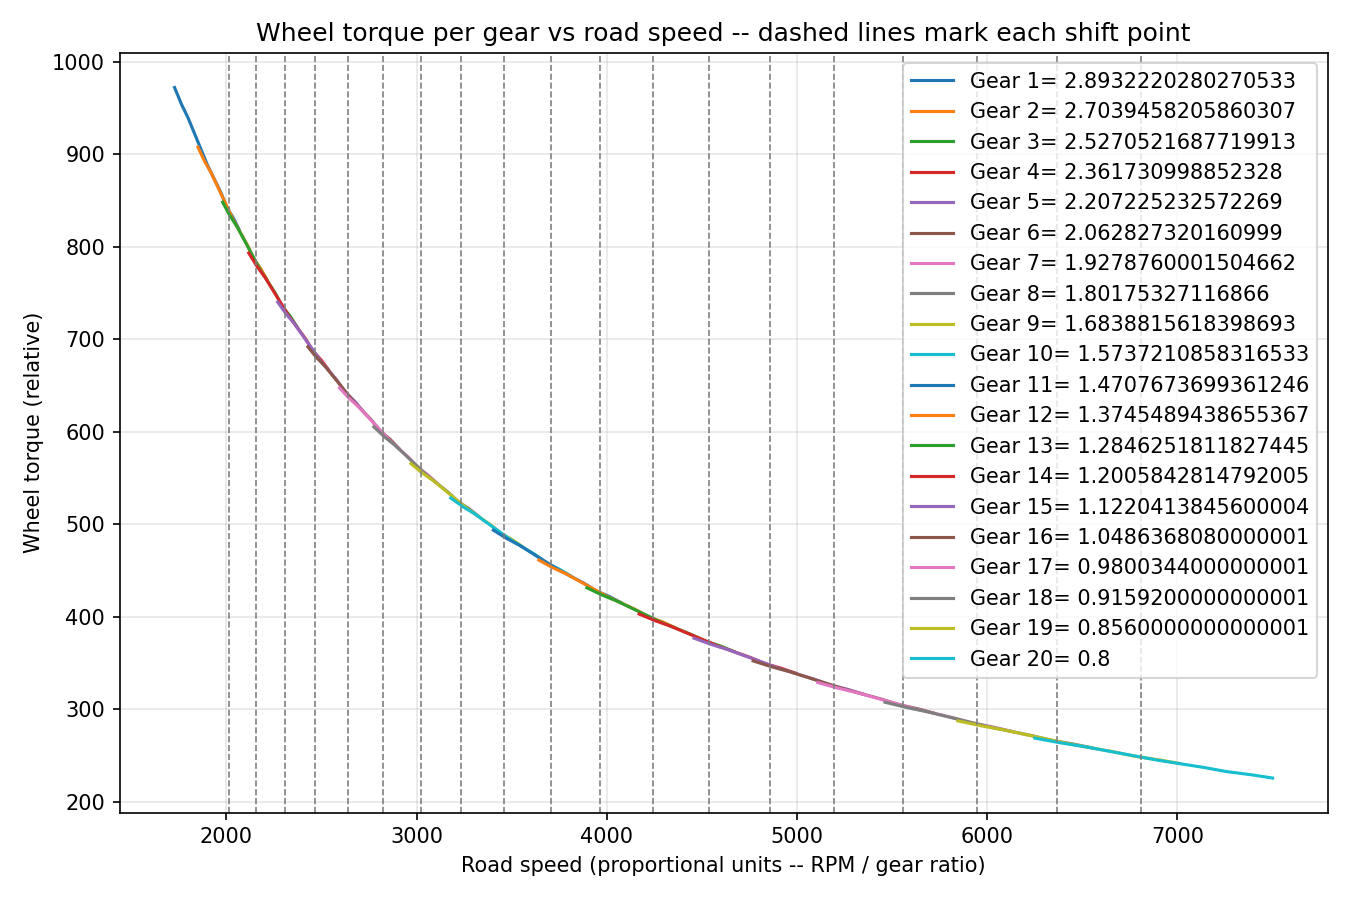
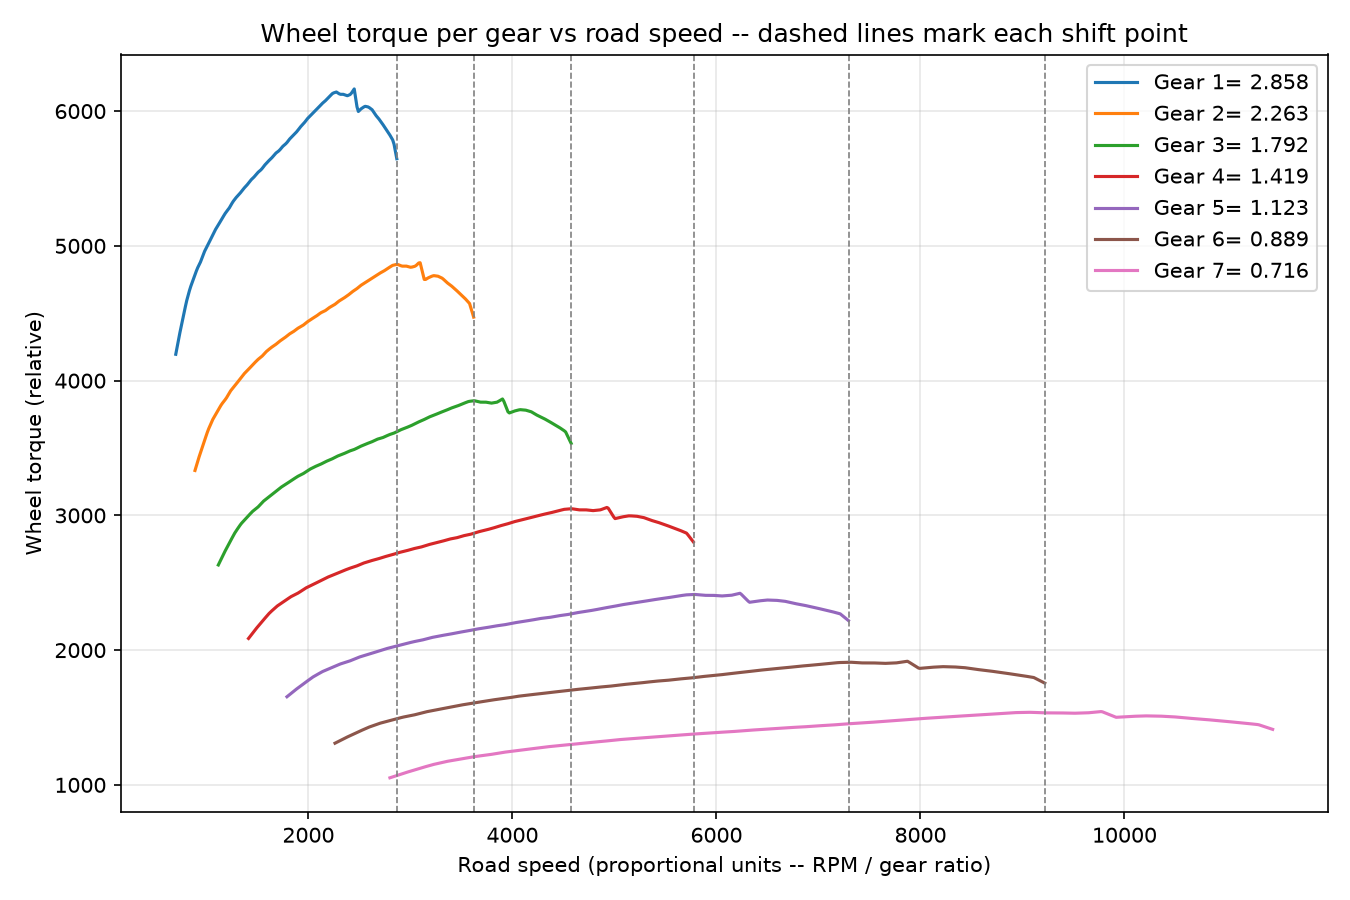
some changes

diff --git a/dyno_chart_extractor.py b/dyno_chart_extractor.py
@@ -89,10 +89,10 @@ CROP_BOX = (360, 300, 1700, 900)
 
 # The RPM values the x-axis gridlines show, left to right.
 # RPM_GRIDLINE_VALUES = [0, 1000, 2000, 3000, 4000, 5000, 6000, 7000, 8000]
-RPM_GRIDLINE_VALUES = [i for i in range(0, 11000+1, 1000)]
+# RPM_GRIDLINE_VALUES = [i for i in range(0, 11000+1, 1000)]
 
 # The values the y-axis gridlines show, top to bottom.
-VALUE_GRIDLINE_VALUES = [i for i in range(900,-1,-100)]
+# VALUE_GRIDLINE_VALUES = [i for i in range(900,-1,-100)]
 
 # Curve-free pixel bands (relative to the CROPPED image) used to detect
 # gridlines without curve interference. X band = a row range near the
@@ -100,8 +100,12 @@ VALUE_GRIDLINE_VALUES = [i for i in range(900,-1,-100)]
 # column range near the LEFT edge, before either curve starts. If the
 # gridline count warning fires, look at the saved debug image and move
 # these to a spot the curves don't touch in your screenshot.
-X_GRIDLINE_DETECT_ROWS = (65, 175)
-Y_GRIDLINE_DETECT_COLS = (175, 200)
+
+#                        top, bottom
+X_GRIDLINE_DETECT_ROWS = (70, 80)
+
+#                        left, right
+Y_GRIDLINE_DETECT_COLS = (110, 140)
 
 SAMPLE_STEP_RPM = 100     # how finely to sample the traced curves
 MAX_GAP_PX = 10           # a bigger gap than this = stop trusting that curve past it
@@ -187,7 +191,12 @@ def find_gridlines(arr, axis, band, expected_values):
             cur = [v]
     clusters.append(sum(cur) / len(cur))
 
+
+
     if len(clusters) != len(expected_values):
+        print("clusters:", clusters)
+        print("cluster count:", len(clusters))
+        print("expected count:", len(expected_values))
         raise RuntimeError(
             f"Found {len(clusters)} {axis}-axis gridlines but expected {len(expected_values)} "
             f"(from {'RPM' if axis == 'x' else 'VALUE'}_GRIDLINE_VALUES). Check debug_crop.png "
@@ -250,6 +259,31 @@ def trace_curve(arr, classifier, max_jump=30):
     return points
 
 
+def fill_hidden_gaps(curve_points, other_curve_points, max_gap=30):
+    """
+    Fills gaps in curve_points using other_curve_points' value at the
+    same x -- for the case where the yellow (torque) line gets covered
+    by the red (power) line where they cross, so yellow's real pixels
+    just aren't there to read. Assumes yellow sits right under red at
+    that spot, which is the best guess available when it's hidden.
+
+    Only fills gaps up to max_gap pixels wide, so it doesn't wrongly
+    borrow red's data across a big, unrelated gap (like the near-redline
+    dropout) -- that should stay a real gap, not get papered over.
+    """
+    if not curve_points:
+        return curve_points
+    xs = sorted(curve_points)
+    filled = dict(curve_points)
+    for i in range(len(xs) - 1):
+        gap = xs[i + 1] - xs[i]
+        if 1 < gap <= max_gap:
+            for x in range(xs[i] + 1, xs[i + 1]):
+                if x in other_curve_points:
+                    filled[x] = other_curve_points[x]
+    return filled
+
+
 def reliable_range(curve, max_gap):
     """Returns (first_x, last_x_before_first_big_gap). A screenshot's
     curve sometimes has a short break (colors overlapping at a crossing
@@ -276,7 +310,9 @@ def get_dyno_data(image_path: str,
     open_file_cross_platform(crop_path)
     global RPM_GRIDLINE_VALUES, VALUE_GRIDLINE_VALUES
     RPM_GRIDLINE_VALUES = [i for i in range(0, int(input("what is Max value of RPM Axis? "))+1, 1000)]
-    VALUE_GRIDLINE_VALUES = [i for i in range(int(input("what is Max value of Torque Axis? ")),-1,-100)]
+    VALUE_GRIDLINE_VALUES = [i for i in range(int(input("what is Max value of Torque Axis? ")),-1,-int(input("what is Min value of Torque Axis? ")))]
+    print(RPM_GRIDLINE_VALUES)
+    print(VALUE_GRIDLINE_VALUES)
 
     x_px = find_gridlines(arr, 'x', X_GRIDLINE_DETECT_ROWS, RPM_GRIDLINE_VALUES)
     y_px = find_gridlines(arr, 'y', Y_GRIDLINE_DETECT_COLS, VALUE_GRIDLINE_VALUES)
@@ -297,9 +333,44 @@ def get_dyno_data(image_path: str,
     print("Tracing power curve (red)...")
     red = trace_curve(arr, is_red)
 
+    # EXPERIMENTAL
+    yellow = fill_hidden_gaps(yellow, red)
+
+
     # debug overlay: gridlines + traced curves, so you can eyeball correctness
     overlay = img.copy()
     draw = ImageDraw.Draw(overlay)
+
+
+    h, w, _ = arr.shape
+
+    # X gridline detector: checks this horizontal strip
+    x_lo, x_hi = X_GRIDLINE_DETECT_ROWS
+    draw.rectangle(
+        [(0, x_lo), (w - 1, x_hi - 1)],
+        outline=(255, 255, 0),
+        width=3,
+    )
+
+    # Y gridline detector: checks this vertical strip
+    y_lo, y_hi = Y_GRIDLINE_DETECT_COLS
+    draw.rectangle(
+        [(y_lo, 0), (y_hi - 1, h - 1)],
+        outline=(255, 0, 255),
+        width=3,
+    )
+
+
+
+
+
+
+
+
+
+
+
+
     for px in x_px:
         draw.line([(px, 0), (px, overlay.height)], fill=(0, 200, 255), width=1)
     for px in y_px:
@@ -335,6 +406,8 @@ def get_dyno_data(image_path: str,
           f"lb-ft/HP instead -- if it's neither, something's misdetected)")
 
     print(f"\nSaved debug_crop.png and debug_trace_overlay.png -- check them before trusting this:\n")
+
+    print(f"HP = {power}")
 
     plot_torque_curve(rpms, torque)
 

diff --git a/upshift_when.py b/upshift_when.py
@@ -49,17 +49,45 @@ import dyno_chart_extractor
 
 # Gear ratios in order, 1st gear first. No final drive needed (see above).
 
-GEAR_RATIOS = [3.179, 2.445, 1.834, 1.419, 1.113, 0.856, 0.716]
-# Gearbox Name: GSG/A-TRONIC (A/T AWD) / 88KG
-GEAR_RATIOS = [3.207, 2.261, 1.570, 1.124, 0.810, 0.582, 0.486]
+
+# GN:6L90
+GEAR_RATIOS = [3.627, 2.47, 1.683, 1.146, 0.78, 0.737]
+# GN:ZF 5H30
+GEAR_RATIOS = [3.208, 2.191, 1.497, 1.022, 0.75]
+
+# GN:ZF 8HP90
+GEAR_RATIOS = [4.239, 3.129, 2.31, 1.75, 1.325, 1.004, 0.84, 0.737]
 
 
 # one of the best arrangements for civic
 # GEAR_RATIOS = [3.177, 2.443, 1.834, 1.419, 1.163, 0.966, 0.875]
 # FD = 2.585
 
-# first_gear_ratio * FD <= 9.45
-# last__gear_ratio * FD >= 4.3
+# GN:ZF 4HP22  ===================    popularuli gearboxi (default)
+GEAR_RATIOS = [2.48, 1.48, 1, 0.73] 
+
+# GN:ZF 4HP22  ===================    popularuli gearboxi (tuned, minimized drops) === 1.424 drop
+GEAR_RATIOS = [2.232, 1.566, 1.1, 0.772] 
+
+# GN:ZF 4HP22  ===================    popularuli gearboxi (tuned, minimized dros + 3->4 1.369)
+GEAR_RATIOS = [2.232, 1.566, 1.1, 0.803] 
+
+# GN:6ASG AT RWD / 78 === 1.289 drop (second place, but rwd)
+GEAR_RATIOS = [2.908, 2.255, 1.748, 1.356, 1.051, 0.815]
+
+# Civic_b16 ========= Gearbox Name: GSG/A-TRONIC (A/T AWD) / 88KG
+GEAR_RATIOS = [3.207, 2.261, 1.570, 1.124, 0.810, 0.582, 0.486]
+FD = "max number"
+
+# Dodge charger ===== GN: KLST (A/T AWD) / 75
+# GEAR_RATIOS = [4.248, 3.429, 2.947, 2.475, 1.737, 1.25,  1.737, 1.37]
+GEAR_RATIOS = [4.248, 3.404, 2.728, 2.187, 1.752, 1.404, 1.126, 0.902, 0.723]  # seems to be best, why i am not using
+
+# GN:ZF 5HP30 AT RWD === 1.4638 drop
+GEAR_RATIOS = [3.208, 2.191, 1.497, 1.022, 0.75]
+
+# Dodge charger ===== GN: 7 DSG AT AWD / 92  ===================================== best GEAR RATIOS  === 1.263 drop
+GEAR_RATIOS = [2.858, 2.263, 1.792, 1.419, 1.123, 0.889, 0.716]
 
 
 IMAGE_PATH = dyno_chart_extractor.IMAGE_PATH
@@ -94,7 +122,7 @@ DYNO_RPM, DYNO_TORQUE = dyno_chart_extractor.get_dyno_data(IMAGE_PATH)
 
 
 # REDLINE_RPM = DYNO_RPM[-1]   # top of the search range
-REDLINE_RPM = DYNO_RPM[-4]
+REDLINE_RPM = DYNO_RPM[-2]
 MIN_RPM     = 2000   # bottom of the search range (idle / lowest usable RPM)
 
 SHOW_PLOT = True
@@ -139,7 +167,6 @@ def find_shift_rpm(ratio_a, ratio_b, lo, hi, steps=4000):
 
     # return crossings, vals[-1]
     return crossings, float(np.sign(vals[-1]))  # if it does not work, uncomment prev line
-
 
 
 def plot_wheel_torque_curves(shift_points):
@@ -191,7 +218,7 @@ def main():
 
         if not crossings:
             if end_diff > 0:
-                print(f"{label:<10}{'redline':<14}(gear {i+1} stays ahead all the way -- shift at redline)")
+                print(f"{label:<10}{'redline':<14}=(gear {i+1} stays ahead all the way -- shift at redline={REDLINE_RPM})")
                 shift_points.append((REDLINE_RPM, ratio_a))
             else:
                 print(f"{label:<10}{MIN_RPM:<14}(gear {i+2} is already ahead from {MIN_RPM} RPM -- shift ASAP)")
